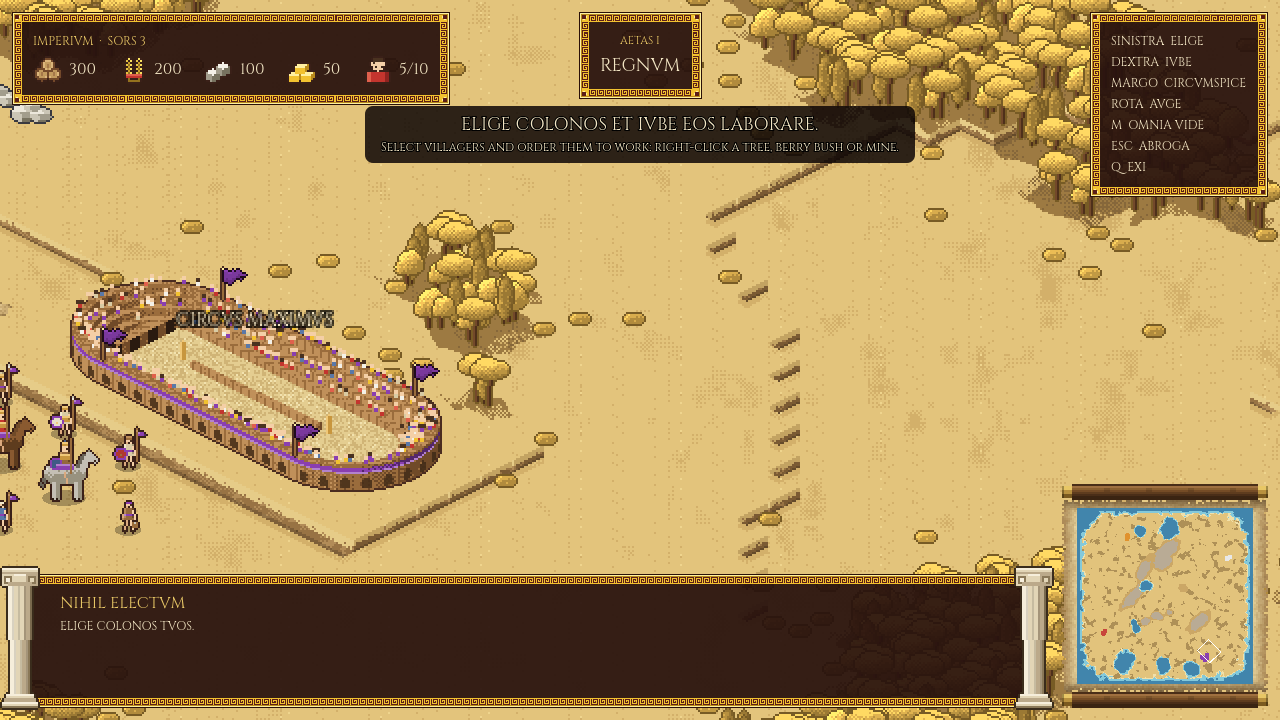
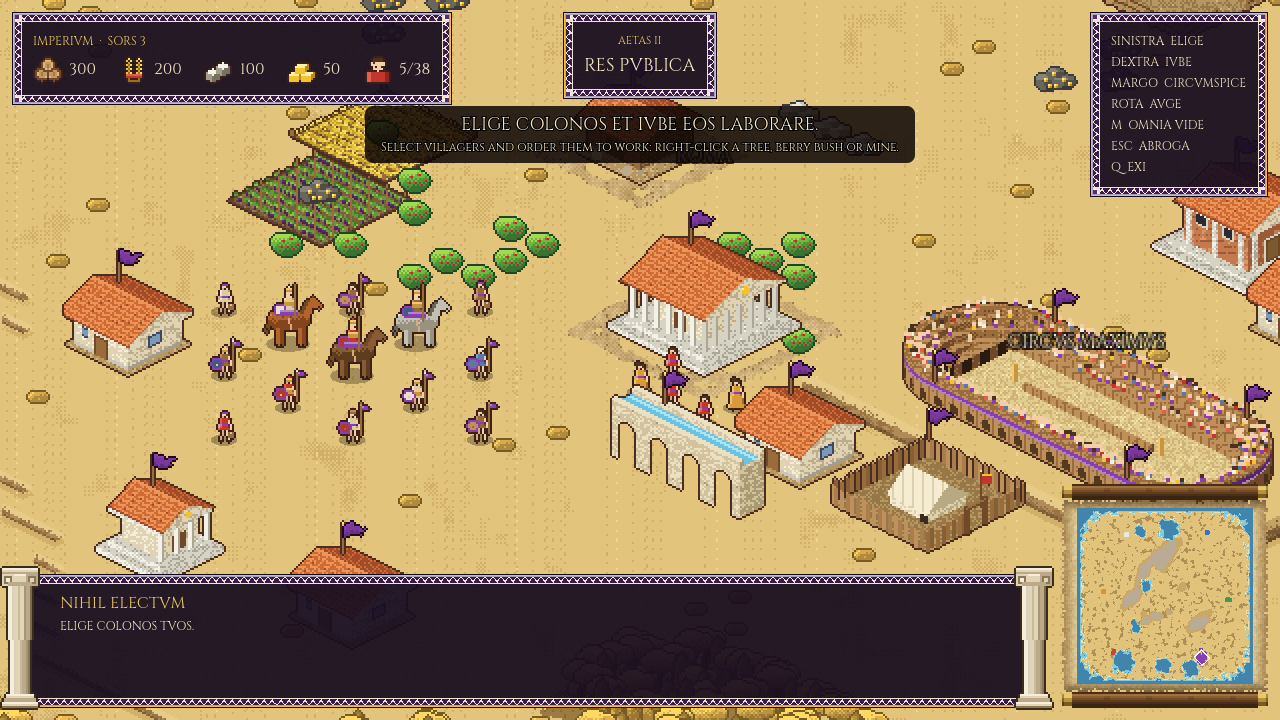
Era II screenshots (Republic town, snow, desert, rain) and a --town debug flag

diff --git a/docs/DESIGN.md b/docs/DESIGN.md
@@ -162,7 +162,7 @@ era gating of buildings comes first.
   - **Tabula** (the map): the **kind of map**, i.e. the shape of the land (18: Continens, Campi, Insulae Parvae, Insulae Magnae, Archipelagus, Mare Nostrum, Paeninsula, Montes, Paludes, Silvae, Lacus, Vallis Tiberis, Ora Maritima, Duae Terrae, Anulus, Colles, Litus Asperum, Insula), each with a picture drawn by the same generator (`GameMap.preview`); the **size** (Minima 160, Parva 240, Media 320, Magna 400, Maxima 480 tiles a side); the **ground** (*Natura soli*), which is separate from the shape: Temperata, Campestris (grassland), Collina (hilly), Silvestris (wooded), Nivalis (snow) and Arida (desert); and the **resources** (Tenuis, Mediocris, Opima: 0.6x, 1x or 1.6x as many berry patches, mines and finds, at the start and scattered over the map).
   - **Populi** (the peoples): the **number** (2 to 8: you plus 1 to 7 computer-run rivals); the **AI skill** (Facilis, Aequus, Difficilis; see below); and a row per people playing, where you pick which people each rival is (the seven in `Defs.RIVAL_ORDER`, each used once; you are always the Romans) and its **colour** (the eight in `Defs.PLAYER_COLORS`, each used once). Choosing something already taken swaps the two. Player numbers are slots (you 0, the rivals 1 and up); `Defs.color_of(owner)` gives a slot's colour.
   - **Instrumenta** (the interface): game **speed** (0.5x, 1x, 1.5x, 2x, applied as `Engine.time_scale` once the world runs), **music** and **effects** volume (0 to 5 notches, set on buses named Music and Effects, made at start-up; there is quiet music, see below; no sound effects yet) and window or full screen.
-  Debug flags override the choices without saving: `--map= --size= --players= --resources= --difficulty= --terrain=` (and `--page=map|players|interface` with `--settings`).
+  Debug flags for looking at the game: `--era=1` starts in Era II and `--town` adds a finished town round the Forum (houses, vineyard, Curia, barracks, aqueduct and more). Debug flags override the choices without saving: `--map= --size= --players= --resources= --difficulty= --terrain=` (and `--page=map|players|interface` with `--settings`).
 - **Where players start** (`GameMap.RINGS`, `GameMap.home_points`): every player, you included, starts round a ring, as far from the others as the land allows, not you in the middle. The ring is a square (half-side 0.32 to 0.38 of the map) for the continents and island maps, and an ellipse for the others (a long thin one along the axis for the peninsula and the Tiber valley, so players sit on both banks; a small one for the single island). Your place on the ring is random (from the seed) and the others follow in slot order. The generator gets the same points, so it levels and clears each start (and gives each player an island of its own on island maps). The peninsula is narrow, so with 8 players one may not find room.
 - **Interface ornaments**: the command bar has a marble column at each end (`ui/ornament.gd`, drawn in code) and the minimap sits on a parchment scroll with wooden rollers (`ui/map_scroll.gd`).
 - **Finding stutter**: see `docs/PERFORMANCE.md` for the findings and follow-up. (`ui/frame_monitor.gd`, `core/perf.gd`): F3 in game shows frame time (average, 99th percentile, worst), script, render and GPU time, object, node and orphan counts, memory and draw calls, and the last stall. Every frame over 24 ms is appended to `user://stutter.log` (macOS: `~/Library/Application Support/Godot/app_userdata/Imperium/stutter.log`) with the three slowest parts of the game code in that frame, including which kind of unit work (`unit_explore_p3`: a player-3 unit exploring). `--stutter` logs from the start, `--stutter=all` logs every frame. GDScript has no tracing garbage collector (reference counting frees things at once), so a long frame with no jump in object count or memory is CPU work. The first real stutter found this way was not rain at all: rivals' explorers sorted thousands of candidate spots with a GDScript comparator (130 ms), gatherers looking for a new tree scanned every deposit on the map (250 to 600 ms), and the rivals' deposit search re-walked whole squares for every ring. All are now bounded to the ground near the unit.

diff --git a/README.md b/README.md
@@ -22,6 +22,12 @@ get free resources, on any setting.
 
 ![The peoples page: choose who plays and in what colours](docs/screenshots/settings_players.png)
 
+**The Republic.** Advancing to Era II (*Res Publica*) changes the look of everything: the interface takes
+a violet-and-white border, the hut of Romulus gives way to a marble Forum with a tiled roof, and
+houses, vineyards, an aqueduct, the Senate House (*Curia*) and barracks become available.
+
+![A Republican town: a marble Forum, an aqueduct, a house and a vineyard, under the violet border of Era II](docs/screenshots/republic.png)
+
 **Many kinds of ground.** The ground is chosen apart from the shape of the land, so the same coast can
 be green, snowy or sand. Snow whitens the grass, pines and hills; the desert parches them; marshlands
 are reeds and pools; hilly maps rise into terraces; wooded maps are thick with forest. The minimap is a
@@ -29,7 +35,7 @@ parchment scroll that fills in as you explore.
 
 | Snow | Desert |
 |---|---|
-| ![Snow over the Circus Maximus and a pine wood](docs/screenshots/biome-snow.png) | ![Dry sand with parched trees around the Circus Maximus](docs/screenshots/biome-desert.png) |
+| ![A Republican town in the snow, beside the Circus Maximus](docs/screenshots/biome-snow.png) | ![A Republican town on dry sand](docs/screenshots/biome-desert.png) |
 | **Marshland** | **Hills** |
 | ![Reed beds and pools beside the Circus Maximus](docs/screenshots/biome-marsh.png) | ![Terraced hills rising from open meadow](docs/screenshots/biome-hills.png) |
 
@@ -52,7 +58,7 @@ ripples the water, storms roughen it, and fog drifts in banks.
 
 | Rain | Fog |
 |---|---|
-| ![Rain falling over the village and its pond](docs/screenshots/rain.png) | ![Fog rolling over the village](docs/screenshots/fog.png) |
+| ![Rain falling over a Republican Forum and aqueduct](docs/screenshots/rain.png) | ![Fog rolling over the village](docs/screenshots/fog.png) |
 
 **Fighting men.** Horsemen (Equites), spearmen (Pedites) and slingers (Funditores) in the colour of
 their owner: purple for you, a different colour for another player.
